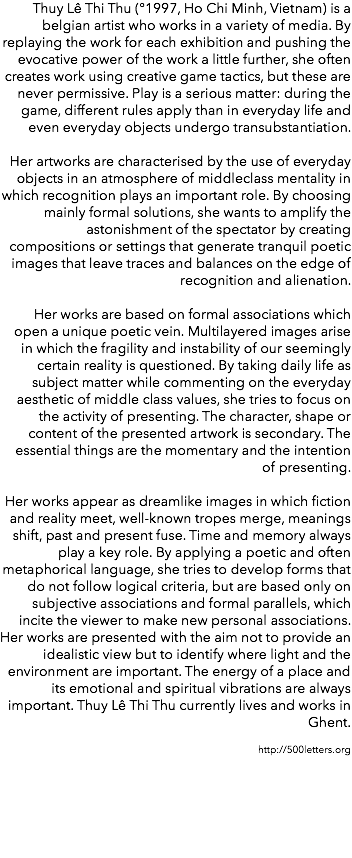
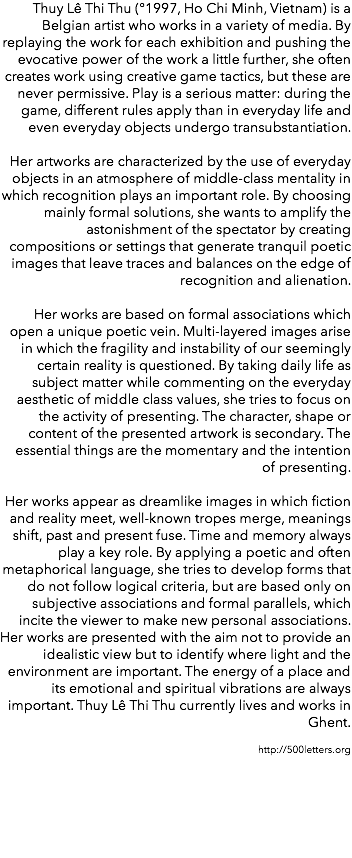
Add files via upload

diff --git a/aboutcontact.html b/aboutcontact.html
@@ -28,7 +28,7 @@ if(typeof Muse == "undefined") window.Muse = {}; window.Muse.assets = {"required
    </div>
    <div class="clearfix grpelem" id="pu663"><!-- column -->
     <a class="nonblock nontext clip_frame colelem" id="u663" href="index.html"><!-- image --><img class="block" id="u663_img" src="images/p1000212-crop-u663.png?crc=3932971699" alt="" data-heightwidthratio="1.3387096774193548" data-image-width="62" data-image-height="83"/></a>
-    <a class="nonblock nontext colelem" id="u693-25" href="perv.html"><!-- rasterized frame --><img id="u693-25_img" alt="Thuy Lê Thi Thu (°1997, Ho Chi Minh, Vietnam) is a belgian artist who works in a variety of media. By replaying the work for each exhibition and pushing the evocative power of the work a little further, she often creates work using creative game tactics, but these are never permissive. Play is a serious matter: during the game, different rules apply than in everyday life and even everyday objects undergo transubstantiation. Her artworks are characterised by the use of everyday objects in an atmosphere of middleclass mentality in which recognition plays an important role. By choosing mainly formal solutions, she wants to amplify the astonishment of the spectator by creating compositions or settings that generate tranquil poetic images that leave traces and balances on the edge of recognition and alienation. Her works are based on formal associations which open a unique poetic vein. Multilayered images arise in which the fragility and instability of our seemingly certain reality is questioned. By taking daily life as subject matter while commenting on the everyday aesthetic of middle class values, she tries to focus on the activity of presenting. The character, shape or content of the presented artwork is secondary. The essential things are the momentary and the intention of presenting. Her works appear as dreamlike images in which fiction and reality meet, well-known tropes merge, meanings shift, past and present fuse. Time and memory always play a key role. By applying a poetic and often metaphorical language, she tries to develop forms that do not follow logical criteria, but are based only on subjective associations and formal parallels, which incite the viewer to make new personal associations. Her works are presented with the aim not to provide an idealistic view but to identify where light and the environment are important. The energy of a place and its emotional and spiritual vibrations are always important. Thuy Lê Thi Thu currently lives and works in Ghent. http://500letters.org " src="images/u693-25.png?crc=4269831435" data-image-width="352"/></a>
+    <a class="nonblock nontext colelem" id="u693-25" href="perv.html"><!-- rasterized frame --><img id="u693-25_img" alt="Thuy Lê Thi Thu (°1997, Ho Chi Minh, Vietnam) is a Belgian artist who works in a variety of media. By replaying the work for each exhibition and pushing the evocative power of the work a little further, she often creates work using creative game tactics, but these are never permissive. Play is a serious matter: during the game, different rules apply than in everyday life and even everyday objects undergo transubstantiation. Her artworks are characterized by the use of everyday objects in an atmosphere of middle-class mentality in which recognition plays an important role. By choosing mainly formal solutions, she wants to amplify the astonishment of the spectator by creating compositions or settings that generate tranquil poetic images that leave traces and balances on the edge of recognition and alienation. Her works are based on formal associations which open a unique poetic vein. Multi-layered images arise in which the fragility and instability of our seemingly certain reality is questioned. By taking daily life as subject matter while commenting on the everyday aesthetic of middle class values, she tries to focus on the activity of presenting. The character, shape or content of the presented artwork is secondary. The essential things are the momentary and the intention of presenting. Her works appear as dreamlike images in which fiction and reality meet, well-known tropes merge, meanings shift, past and present fuse. Time and memory always play a key role. By applying a poetic and often metaphorical language, she tries to develop forms that do not follow logical criteria, but are based only on subjective associations and formal parallels, which incite the viewer to make new personal associations. Her works are presented with the aim not to provide an idealistic view but to identify where light and the environment are important. The energy of a place and its emotional and spiritual vibrations are always important. Thuy Lê Thi Thu currently lives and works in Ghent. http://500letters.org " src="images/u693-25.png?crc=144902063" data-image-width="352"/></a>
    </div>
    <div class="verticalspacer" data-offset-top="1056" data-content-above-spacer="1056" data-content-below-spacer="61" data-sizePolicy="fixed" data-pintopage="page_fixedLeft"></div>
   </div>

diff --git a/css/work_1.css b/css/work_1.css
@@ -1,1 +1,1 @@
-.version.work_1{color:#00001F;background-color:#E2CE26;}#page{z-index:1;min-height:1131px;background-image:none;border-width:0px;border-color:#000000;background-color:transparent;padding-bottom:62px;width:100%;max-width:960px;margin-left:auto;margin-right:auto;}#u1337{z-index:6;background-color:transparent;position:relative;margin-right:-10000px;margin-top:98px;width:8.86%;left:6.88%;}#u1337_img{padding-right:8.235294117647058%;width:91.77%;}.css_verticalspacer .verticalspacer{height:calc(100vh - 404px);}#pu1319{z-index:4;padding-bottom:0px;margin-right:-10000px;margin-top:-957px;width:64.38%;margin-left:17.82%;}#u1319{z-index:4;border-style:solid;border-width:1px;border-color:#000000;background-color:transparent;position:relative;width:99.68%;}#u1319_img{width:100%;}#u1317{z-index:2;background-color:transparent;margin-top:55px;position:relative;width:99.68%;margin-left:0.17%;}#u1317_img{width:100.17%;}#muse_css_mq,.html{background-color:#FFFFFF;}body{position:relative;min-width:320px;padding-bottom:174px;}.verticalspacer{min-height:962px;}
+.version.work_1{color:#0000EE;background-color:#40056C;}#page{z-index:1;min-height:2115px;background-image:none;border-width:0px;border-color:#000000;background-color:transparent;padding-bottom:62px;width:100%;max-width:960px;margin-left:auto;margin-right:auto;}#u1337{z-index:6;background-color:transparent;position:relative;margin-right:-10000px;margin-top:98px;width:8.86%;left:6.88%;}#u1337_img{padding-right:8.235294117647058%;width:91.77%;}#pu1603{z-index:10;padding-bottom:1px;margin-right:-10000px;margin-top:1097px;width:64.17%;margin-left:17.92%;}#u1603{z-index:10;background-color:transparent;position:relative;width:100%;}#u1601{z-index:8;background-color:transparent;margin-top:81px;position:relative;width:100%;}.css_verticalspacer .verticalspacer{height:calc(100vh - 2092px);}#pu1319{z-index:4;padding-bottom:0px;margin-right:-10000px;margin-top:-2079px;width:65.32%;margin-left:17.82%;}#u1319{z-index:4;border-style:solid;border-width:1px;border-color:#000000;background-color:transparent;position:relative;width:98.25%;}#u1603_img,#u1601_img,#u1319_img{width:100%;}#u1317{z-index:2;background-color:transparent;margin-top:80px;position:relative;width:98.25%;margin-left:1.76%;}#u1317_img{width:100.17%;}#muse_css_mq,.html{background-color:#FFFFFF;}body{position:relative;min-width:320px;}.verticalspacer{min-height:84px;}

diff --git a/work_1.html b/work_1.html
@@ -17,13 +17,21 @@ if(typeof Muse == "undefined") window.Muse = {}; window.Muse.assets = {"required
   <title>Work_1</title>
   <!-- CSS -->
   <link rel="stylesheet" type="text/css" href="css/site_global.css?crc=444006867"/>
-  <link rel="stylesheet" type="text/css" href="css/work_1.css?crc=534957606" id="pagesheet"/>
+  <link rel="stylesheet" type="text/css" href="css/work_1.css?crc=3997173100" id="pagesheet"/>
    </head>
  <body>
 
   <div class="clearfix borderbox" id="page"><!-- group -->
    <a class="nonblock nontext clip_frame grpelem" id="u1337" href="index.html"><!-- image --><img class="block" id="u1337_img" src="images/12-crop-u1337.png?crc=4121950236" alt="" data-heightwidthratio="0.9102564102564102" data-image-width="78" data-image-height="71"/></a>
-   <div class="verticalspacer" data-offset-top="169" data-content-above-spacer="168" data-content-below-spacer="236" data-sizePolicy="fixed" data-pintopage="page_fixedLeft"></div>
+   <div class="clearfix grpelem" id="pu1603"><!-- column -->
+    <div class="clip_frame colelem" id="u1603"><!-- image -->
+     <img class="block" id="u1603_img" src="images/img_6104.jpg?crc=3568068" alt="" data-heightwidthratio="0.6525974025974026" data-image-width="616" data-image-height="402"/>
+    </div>
+    <div class="clip_frame colelem" id="u1601"><!-- image -->
+     <img class="block" id="u1601_img" src="images/_dsc0291.jpg?crc=307531756" alt="" data-heightwidthratio="0.7305194805194806" data-image-width="616" data-image-height="450"/>
+    </div>
+   </div>
+   <div class="verticalspacer" data-offset-top="2076" data-content-above-spacer="2030" data-content-below-spacer="62" data-sizePolicy="fixed" data-pintopage="page_fixedLeft"></div>
    <div class="clearfix grpelem" id="pu1319"><!-- column -->
     <div class="clip_frame colelem" id="u1319"><!-- image -->
      <img class="block" id="u1319_img" src="images/screen%20shot%202017-11-30%20at%20112025-crop-u1319.png?crc=381154081" alt="" data-heightwidthratio="0.7743506493506493" data-image-width="616" data-image-height="477"/>

diff --git a/css/work_3.css b/css/work_3.css
@@ -1,1 +1,1 @@
-.version.work_3{color:#000002;background-color:#0E4DB9;}#page{z-index:1;min-height:438px;background-image:none;border-width:0px;border-color:#000000;background-color:transparent;padding-bottom:62px;width:100%;max-width:960px;margin-left:auto;margin-right:auto;}#u1289{z-index:2;background-color:transparent;position:relative;margin-right:-10000px;margin-top:52px;width:95.84%;left:2.09%;}#u1289_img{width:100%;}#u1291{z-index:4;height:21px;background-color:#FFFFFF;position:relative;margin-right:-10000px;margin-top:94px;width:28.86%;left:30.63%;}#u1292{z-index:5;height:26px;background-color:#FFFFFF;position:relative;margin-right:-10000px;margin-top:89px;width:14.48%;left:5.32%;}.css_verticalspacer .verticalspacer{height:calc(100vh - 801px);}#muse_css_mq,.html{background-color:#FFFFFF;}body{position:relative;min-width:320px;}
+.version.work_3{color:#00001A;background-color:#6C2110;}#page{z-index:1;min-height:678px;background-image:none;border-width:0px;border-color:#000000;background-color:transparent;padding-bottom:62px;width:100%;max-width:960px;margin-left:auto;margin-right:auto;}#u1289{z-index:2;background-color:transparent;position:relative;margin-right:-10000px;margin-top:52px;width:95.84%;left:2.09%;}#u1289_img{width:100%;}#u1291{z-index:4;height:21px;background-color:#FFFFFF;position:relative;margin-right:-10000px;margin-top:94px;width:28.86%;left:30.63%;}#u1292{z-index:5;height:26px;background-color:#FFFFFF;position:relative;margin-right:-10000px;margin-top:89px;width:14.48%;left:5.32%;}.css_verticalspacer .verticalspacer{height:calc(100vh - 801px);}#muse_css_mq,.html{background-color:#FFFFFF;}body{position:relative;min-width:320px;}

diff --git a/work_3.html b/work_3.html
@@ -17,7 +17,7 @@ if(typeof Muse == "undefined") window.Muse = {}; window.Muse.assets = {"required
   <title>Work_3</title>
   <!-- CSS -->
   <link rel="stylesheet" type="text/css" href="css/site_global.css?crc=444006867"/>
-  <link rel="stylesheet" type="text/css" href="css/work_3.css?crc=34491833" id="pagesheet"/>
+  <link rel="stylesheet" type="text/css" href="css/work_3.css?crc=443293968" id="pagesheet"/>
    </head>
  <body>
 
